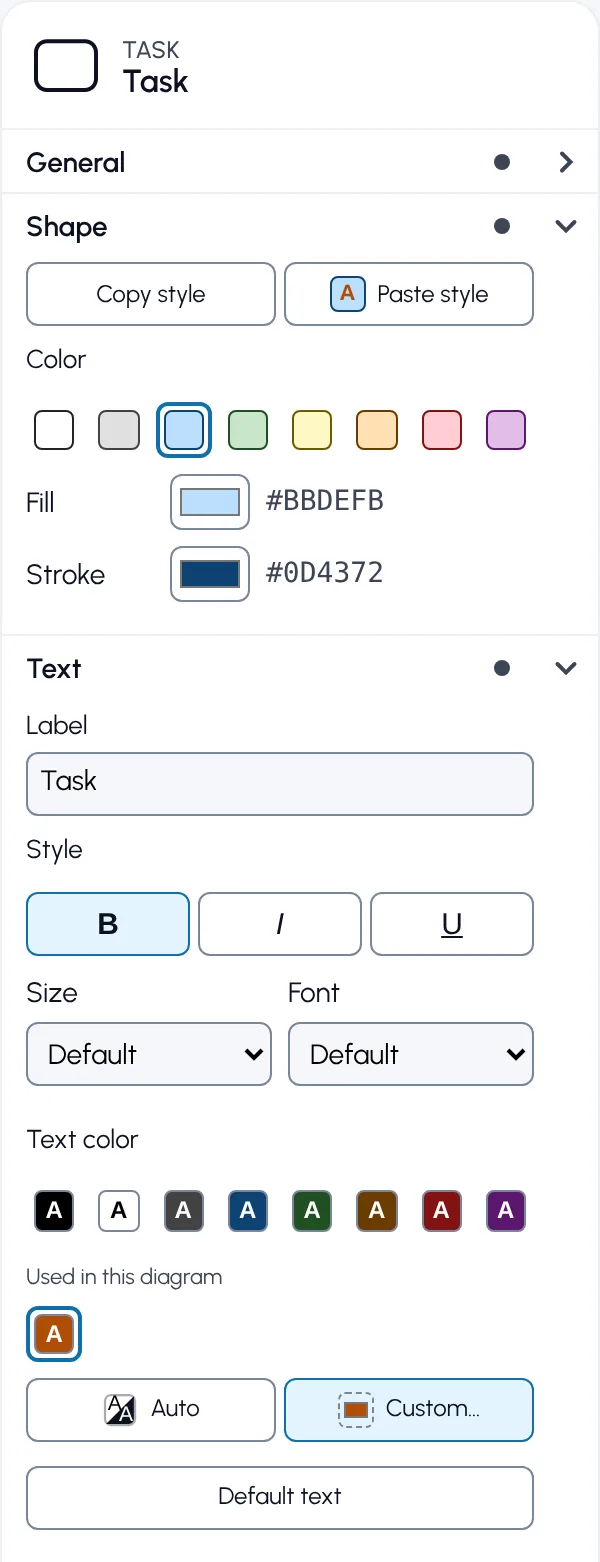
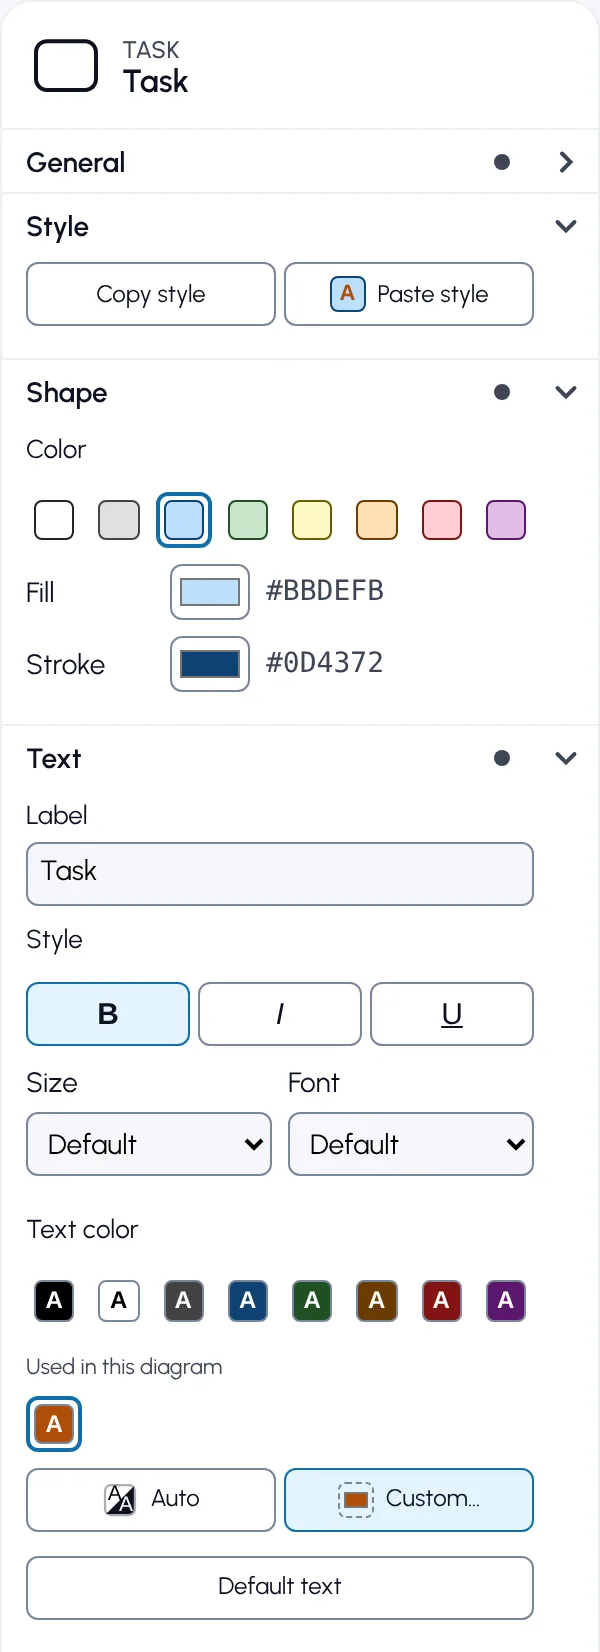
Move Copy style and Paste style to their own Style group
Both buttons act on the shape and the text, so they now sit in a Style
group placed before the Shape and Text groups.

diff --git a/aide.html b/aide.html
@@ -177,10 +177,10 @@
           <li><span class="ui">Forme</span> : une ligne de couleurs toutes prêtes, puis un <span class="ui">Fond</span> et un <span class="ui">Contour</span> pour régler l'un sans l'autre (le carré ouvre le sélecteur de couleur du système). Un flux n'a qu'un contour.</li>
           <li><span class="ui">Texte</span> : le <span class="ui">Libellé</span>, gras, italique, souligné, taille, police, une ligne de couleurs du texte, <span class="ui">Auto</span>, <span class="ui">Autre…</span> et <span class="ui">Texte par défaut</span>.</li>
           <li><span class="ui">Déjà dans le diagramme</span> reprend les couleurs personnalisées déjà posées sur d'autres éléments : un clic redonne la même teinte.</li>
-          <li><span class="ui">Copier le style</span>, en haut du groupe <span class="ui">Forme</span>, retient le fond, le contour, la police et la couleur du texte de l'élément. <span class="ui">Coller le style</span> les applique à un autre élément, avec un aperçu du style copié. Pour l'appliquer à plusieurs éléments d'un coup, sélectionnez-les et utilisez le rouleau <span class="ui">Coller le style</span> du menu contextuel. Le navigateur garde le style copié, même d'un diagramme à l'autre.</li>
+          <li><span class="ui">Copier le style</span>, dans le groupe <span class="ui">Style</span> placé avant les deux autres, retient le fond, le contour, la police et la couleur du texte de l'élément. <span class="ui">Coller le style</span> les applique à un autre élément, avec un aperçu du style copié. Pour l'appliquer à plusieurs éléments d'un coup, sélectionnez-les et utilisez le rouleau <span class="ui">Coller le style</span> du menu contextuel. Le navigateur garde le style copié, même d'un diagramme à l'autre.</li>
         </ul>
         <p>Chaque réglage s'annule par <kbd>Ctrl</kbd>+<kbd>Z</kbd>.</p>
-        <figure><img src="/src/help/img/fr-panneau-apparence.webp" width="300" height="781" alt="Groupes Forme et Texte du panneau Processus pour une tâche : fond et contour bleus, gras activé, et une couleur de texte personnalisée reprise sous Déjà dans le diagramme." loading="lazy" /><figcaption>Les groupes Forme et Texte pour une tâche sélectionnée.</figcaption></figure>
+        <figure><img src="/src/help/img/fr-panneau-apparence.webp" width="300" height="826" alt="Groupes Forme et Texte du panneau Processus pour une tâche : fond et contour bleus, gras activé, et une couleur de texte personnalisée reprise sous Déjà dans le diagramme." loading="lazy" /><figcaption>Les groupes Forme et Texte pour une tâche sélectionnée.</figcaption></figure>
         <p>Couleurs et styles sont enregistrés dans le fichier .bpmn selon la norme, et les autres outils bpmn.io les relisent. Le souligné n'apparaît pas dans l'export PDF, et le PDF dessine les autres polices en Helvetica ou en Times, selon leur famille. Une police absente d'un ordinateur est remplacée par une police voisine.</p>
       </section>
 

diff --git a/help.html b/help.html
@@ -177,10 +177,10 @@
           <li><span class="ui">Shape</span>: a row of ready-made colors, then a <span class="ui">Fill</span> and a <span class="ui">Stroke</span> to set one without the other (the square opens your system's color picker). A flow only has a stroke.</li>
           <li><span class="ui">Text</span>: the <span class="ui">Label</span>, bold, italic, underline, size, font, a row of text colors, <span class="ui">Auto</span>, <span class="ui">Custom…</span> and <span class="ui">Default text</span>.</li>
           <li><span class="ui">Used in this diagram</span> lists the custom colors already applied to other elements: one click reuses the same shade.</li>
-          <li><span class="ui">Copy style</span>, at the top of the <span class="ui">Shape</span> group, remembers the element's fill, stroke, font and text color. <span class="ui">Paste style</span> applies them to another element, with a preview of the copied style. To apply it to several elements at once, select them and use the <span class="ui">Paste style</span> roller of the context menu. The browser keeps the copied style, even from one diagram to another.</li>
+          <li><span class="ui">Copy style</span>, in the <span class="ui">Style</span> group above the other two, remembers the element's fill, stroke, font and text color. <span class="ui">Paste style</span> applies them to another element, with a preview of the copied style. To apply it to several elements at once, select them and use the <span class="ui">Paste style</span> roller of the context menu. The browser keeps the copied style, even from one diagram to another.</li>
         </ul>
         <p>Each change is undone with <kbd>Ctrl</kbd>+<kbd>Z</kbd>.</p>
-        <figure><img src="/src/help/img/en-panneau-apparence.webp" width="300" height="781" alt="Shape and Text groups of the Process panel for a task: blue fill and stroke, bold on, and a custom text color listed under Used in this diagram." loading="lazy" /><figcaption>The Shape and Text groups for a selected task.</figcaption></figure>
+        <figure><img src="/src/help/img/en-panneau-apparence.webp" width="300" height="826" alt="Shape and Text groups of the Process panel for a task: blue fill and stroke, bold on, and a custom text color listed under Used in this diagram." loading="lazy" /><figcaption>The Shape and Text groups for a selected task.</figcaption></figure>
         <p>Colors and styles are saved in the .bpmn file following the standard, and other bpmn.io tools read them back. Underline does not show in the PDF export, and the PDF draws the other fonts in Helvetica or Times, depending on their family. A font missing from a computer is replaced by a similar one.</p>
       </section>
 

diff --git a/src/appearance-panel.js b/src/appearance-panel.js
@@ -27,6 +27,7 @@ import {
 
 const html = htm.bind(h)
 const LOW_PRIORITY = 500
+const STYLE_GROUP = 'appearance-style'
 const SHAPE_GROUP = 'appearance-shape'
 const TEXT_GROUP = 'appearance-text'
 
@@ -316,12 +317,15 @@ AppearancePropertiesProvider.prototype.getGroups = function (element) {
     if (!hasAppearance(element)) return groups
     const target = targetOf(element)
     const added = [{
+      // Copier et coller portent sur la forme et le texte : groupe à part, avant les deux.
+      id: STYLE_GROUP,
+      label: 'Style',
+      shouldOpen: true,
+      entries: [{ id: 'appearance-copy-paste', component: CopyPasteEntry }],
+    }, {
       id: SHAPE_GROUP,
       label: T('Shape', 'Forme'),
-      entries: [
-        { id: 'appearance-copy-paste', component: CopyPasteEntry },
-        { id: 'appearance-shape-color', component: ShapeColorEntry, isEdited: () => !!(fillOf(target) || strokeOf(target)) },
-      ],
+      entries: [{ id: 'appearance-shape-color', component: ShapeColorEntry, isEdited: () => !!(fillOf(target) || strokeOf(target)) }],
     }]
     if (hasText(target)) {
       added.push({
